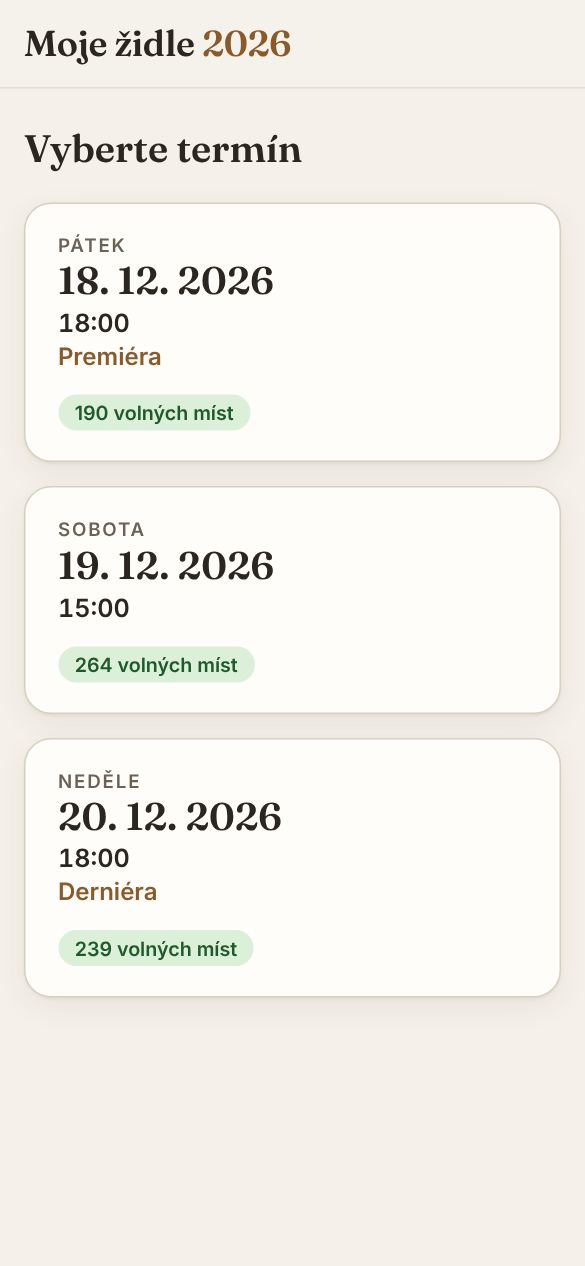
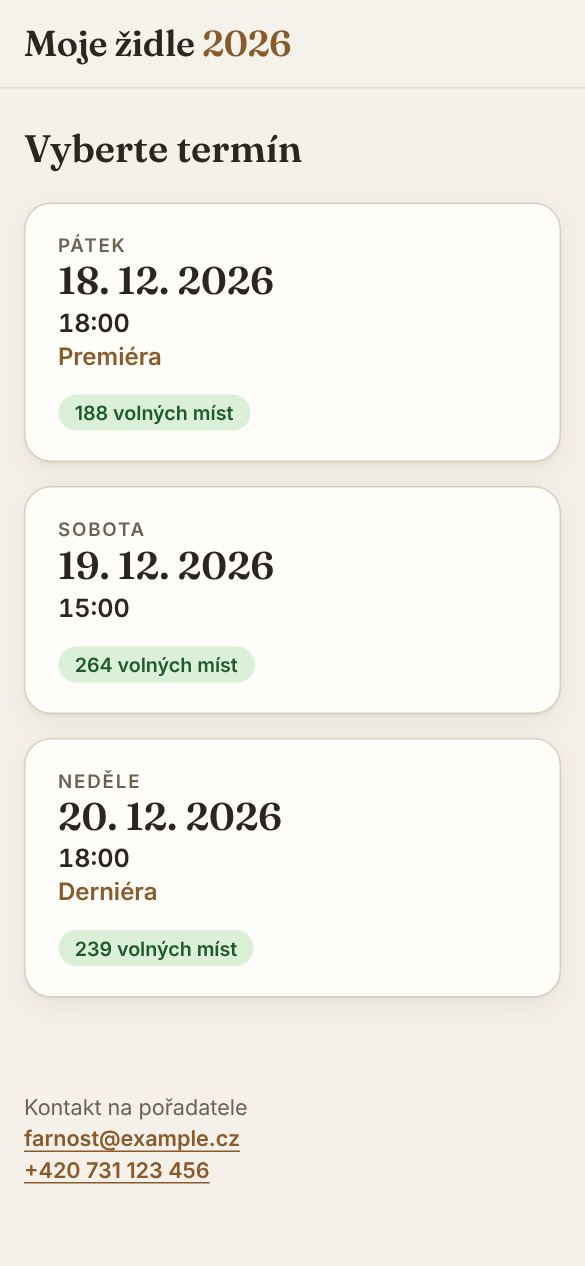
Add organizer contact, SMTP_USER login, softer per-IP limits with ALTCHA
- CONTACT_EMAIL / CONTACT_PHONE: website footer, contact line in every
  e-mail, Reply-To header
- SMTP_USER for servers where the login differs from the sender
- RESERVATIONS_PER_IP_PER_HOUR_ALTCHA (30) and
  ALTCHA_CHALLENGES_PER_IP_PER_HOUR (300) so shared networks are not blocked
- seats.php returns contact instead of the unused altcha flag
- docs updated

Claude-Session: https://claude.ai/code/session_01N2XaXNXgse1c2eHTGFf1yr

diff --git a/docs/prehled/index.html b/docs/prehled/index.html
@@ -160,7 +160,7 @@ footer { color: var(--fg-2); font-size: .85rem; border-top: 1px solid var(--line
     <div class="group-head"><h3>Návštěvník</h3><span class="where">mobil</span></div>
     <div class="screens">
       <figure><div class="phone"><img src="01-terminy.jpg" alt="Výběr představení" width="585" height="1266" loading="lazy"></div>
-        <figcaption><strong>1. Výběr představení</strong>Každé představení s počtem volných míst. Vyprodaná a uzavřená nejdou vybrat.</figcaption></figure>
+        <figcaption><strong>1. Výběr představení</strong>Každé představení s počtem volných míst. Vyprodaná a uzavřená nejdou vybrat. Dole kontakt na pořadatele.</figcaption></figure>
       <figure><div class="phone"><img src="02-planek.jpg" alt="Plánek kostela" width="585" height="1266" loading="lazy"></div>
         <figcaption><strong>2. Plánek kostela</strong>Sekce podle skutečného rozmístění. Barva ukazuje obsazenost, červené číslo vlastní vybraná místa.</figcaption></figure>
       <figure><div class="phone"><img src="03-sekce.jpg" alt="Detail sekce s místy" width="585" height="1266" loading="lazy"></div>
@@ -224,6 +224,7 @@ footer { color: var(--fg-2); font-size: .85rem; border-top: 1px solid var(--line
     <ul class="checklist">
       <li>Bankovní účet pro platby a specifický symbol.</li>
       <li>Přístup k odesílání e-mailů (SMTP): server, port, e-mailová adresa odesílatele a její heslo.</li>
+      <li>Kontaktní e-mail a telefon pořadatelů – zobrazí se na webu a v každém e-mailu, odpovědi na e-maily půjdou na tento kontakt.</li>
       <li>Data a časy všech představení a jejich storno podmínky – musí být hotové před spuštěním prodeje, po první rezervaci je už nelze změnit.</li>
       <li>Seznam VIP hostů pro každé představení.</li>
       <li>Jména pořadatelů u vchodu a na která představení přijdou (dostanou pozvánku).</li>

diff --git a/src/hooks/useSeats.js b/src/hooks/useSeats.js
@@ -17,6 +17,7 @@ export function useSeats(runId) {
   const [bookingOpen, setBookingOpen] = useState(false);
   const [notice, setNotice] = useState(null); // {text} – shown as a toast
   const [dataRetentionDays, setDataRetentionDays] = useState(null);
+  const [contact, setContact] = useState(null);
   const [loading, setLoading] = useState(true);
   const [loadError, setLoadError] = useState(null);
   const [submitting, setSubmitting] = useState(false);
@@ -35,6 +36,7 @@ export function useSeats(runId) {
       setMaxSeats(data.maxSeats);
       setBookingOpen(data.bookingOpen);
       setDataRetentionDays(data.dataRetentionDays);
+      setContact(data.contact ?? null);
       if (!data.bookingOpen) setSelected(new Set());
       // Drop seats someone else reserved in the meantime and tell the user.
       setSelected((prev) => {
@@ -149,6 +151,7 @@ export function useSeats(runId) {
     runs,
     run: runs?.find((r) => r.id === runId) ?? null,
     dataRetentionDays,
+    contact,
     stats,
     seatState,
     toggleSeat,

diff --git a/src/App.jsx b/src/App.jsx
@@ -180,6 +180,14 @@ export default function App() {
         />
       )}
 
+      {(seats.contact?.email || seats.contact?.phone) && (
+        <footer className="site-footer">
+          <span className="muted">Kontakt na pořadatele</span>
+          {seats.contact.email && <a href={`mailto:${seats.contact.email}`}>{seats.contact.email}</a>}
+          {seats.contact.phone && <a href={`tel:${seats.contact.phone.replace(/\s+/g, '')}`}>{seats.contact.phone}</a>}
+        </footer>
+      )}
+
       <div className={`toast ${toast ? 'is-visible' : ''} ${toast?.kind === 'error' ? 'is-error' : ''}`} role="status">
         {toast?.text}
       </div>

diff --git a/src/styles.css b/src/styles.css
@@ -1409,3 +1409,31 @@ h2 {
   margin: 0;
   font-size: 0.95rem;
 }
+
+/* ---------- Footer (contact) ---------- */
+
+.site-footer {
+  max-width: 1280px;
+  margin: 0 auto;
+  padding: 0 16px 2.5rem;
+  display: flex;
+  flex-direction: column;
+  gap: 0.25rem;
+  font-size: 0.9rem;
+}
+
+.site-footer a {
+  color: var(--accent);
+  font-weight: 600;
+  text-underline-offset: 3px;
+  overflow-wrap: anywhere;
+}
+
+@media (min-width: 641px) {
+  .site-footer {
+    flex-direction: row;
+    flex-wrap: wrap;
+    align-items: baseline;
+    gap: 0.5rem 1.25rem;
+  }
+}

diff --git a/src/data/seatService.js b/src/data/seatService.js
@@ -28,7 +28,7 @@ async function request(path, options = {}) {
 
 /**
  * { runs: [{id, label, startsAt, bookingOpen, free, stornoRules}], runId, taken: string[] (of runId),
- *   price, deadlineHours, maxSeats, bookingOpen (of runId), formToken, dataRetentionDays }
+ *   price, deadlineHours, maxSeats, bookingOpen (of runId), formToken, contact {email, phone}, dataRetentionDays }
  */
 export const fetchSeats = (runId) => request(runId ? `seats.php?run=${encodeURIComponent(runId)}` : 'seats.php');
 

diff --git a/api/lib/mail.php b/api/lib/mail.php
@@ -27,7 +27,7 @@ function deliver_mail(string $to, string $subject, string $text, ?string $html =
             $mail->Host = $host;
             $mail->Port = $port;
             $mail->SMTPAuth = filter_var(config('SMTP_AUTH'), FILTER_VALIDATE_BOOLEAN);
-            $mail->Username = (string) config('SMTP_SENDER');
+            $mail->Username = (string) (config('SMTP_USER') ?: config('SMTP_SENDER'));
             $mail->Password = (string) config('SMTP_PASSWORD');
             // 465 = implicit TLS; other ports use STARTTLS whenever the server offers it.
             $mail->SMTPSecure = $port === 465 ? PHPMailer::ENCRYPTION_SMTPS : '';
@@ -41,6 +41,9 @@ function deliver_mail(string $to, string $subject, string $text, ?string $html =
             $from = (string) config('MAIL_FROM');
         }
         $mail->setFrom($from, MAIL_FROM_NAME);
+        if (filter_var((string) config('CONTACT_EMAIL'), FILTER_VALIDATE_EMAIL)) {
+            $mail->addReplyTo((string) config('CONTACT_EMAIL'), MAIL_FROM_NAME);
+        }
         $mail->addAddress($to);
         $mail->Subject = $subject;
         if ($html !== null) {
@@ -63,6 +66,22 @@ function deliver_mail(string $to, string $subject, string $text, ?string $html =
 function mail_enabled(): bool
 {
     return filter_var(config('MAIL_ENABLED'), FILTER_VALIDATE_BOOLEAN);
+}
+
+/** "Kontakt: farnost@example.com · +420 …" or '' when no contact is configured. */
+function contact_line(): string
+{
+    $parts = array_filter([trim((string) config('CONTACT_EMAIL')), trim((string) config('CONTACT_PHONE'))]);
+    return $parts ? 'Kontakt: ' . implode(' · ', $parts) : '';
+}
+
+/** Public contact for the website footer. */
+function contact_public(): array
+{
+    return [
+        'email' => trim((string) config('CONTACT_EMAIL')) ?: null,
+        'phone' => trim((string) config('CONTACT_PHONE')) ?: null,
+    ];
 }
 
 function format_czk(int $amount): string
@@ -112,7 +131,8 @@ function send_customer_email(array $r, string $subject, array $lines): bool
     $body = implode("\n", array_merge(
         ["Dobrý den, {$r['first_name']} {$r['last_name']},", ''],
         $lines,
-        ['', 'Moje židle 2026']
+        ['', 'Moje židle 2026'],
+        contact_line() !== '' ? [contact_line()] : []
     ));
     $ok = deliver_mail($r['email'], $subject . ' – Moje židle 2026', $body);
     if (!$ok) {

diff --git a/api/config.php b/api/config.php
@@ -18,7 +18,9 @@ return (static function (): array {
         'MAX_SEATS_PER_RESERVATION' => 20,
 
         // Spam / bot protection
-        'RESERVATIONS_PER_IP_PER_HOUR' => 5,
+        'RESERVATIONS_PER_IP_PER_HOUR' => 5,          // without ALTCHA
+        'RESERVATIONS_PER_IP_PER_HOUR_ALTCHA' => 30,  // with ALTCHA (each reservation costs proof-of-work); shared networks
+        'ALTCHA_CHALLENGES_PER_IP_PER_HOUR' => 300,
         'PENDING_RESERVATIONS_PER_EMAIL' => 2, // unpaid reservations one e-mail may hold at once in one run
         'LOGIN_ATTEMPTS_PER_15_MIN' => 10,     // admin and organizer login, per IP
         'FORM_MIN_SECONDS' => 3,               // reservation sent sooner after loading the page = bot
@@ -52,9 +54,15 @@ return (static function (): array {
         'MAIL_FROM' => 'rezervace@example.com', // sender for PHP mail() (SMTP uses SMTP_SENDER)
         'SMTP_HOST' => '',               // e.g. smtp.example.com; '' = use PHP mail()
         'SMTP_PORT' => 587,              // 465 = implicit TLS (SMTPS); others use STARTTLS when offered
-        'SMTP_AUTH' => true,             // log in with SMTP_SENDER / SMTP_PASSWORD
-        'SMTP_SENDER' => '',             // sender address and SMTP login, e.g. rezervace@example.com
+        'SMTP_AUTH' => true,             // log in with SMTP_USER (or SMTP_SENDER) / SMTP_PASSWORD
+        'SMTP_SENDER' => '',             // sender address (From), e.g. rezervace@example.com
+        'SMTP_USER' => '',               // SMTP login when it differs from SMTP_SENDER (e.g. 'apikey'); '' = SMTP_SENDER
         'SMTP_PASSWORD' => '',
+
+        // Contact of the organizers: shown in the website footer and in every e-mail;
+        // CONTACT_EMAIL is also the Reply-To address of e-mails.
+        'CONTACT_EMAIL' => '',
+        'CONTACT_PHONE' => '',
         'PUBLIC_URL' => '',              // e.g. https://example.com/zidle/ – used for links in e-mails
 
         // Allowed CORS origin when the frontend runs on another domain ('' = same origin only)

diff --git a/api/lib/ticket.php b/api/lib/ticket.php
@@ -122,6 +122,7 @@ function send_ticket_email(array $r, array $intro = []): bool
         'Variabilní symbol: ' . $r['variable_symbol'],
         '',
         'Při vstupu prosím ukažte QR kód z tohoto e-mailu.',
+        ...(contact_line() !== '' ? ['', contact_line()] : []),
     ]);
 
     $html = '<!doctype html><html><body style="margin:0;background:#f5f1ea;font-family:Arial,sans-serif;color:#2b2620">'
@@ -136,7 +137,8 @@ function send_ticket_email(array $r, array $intro = []): bool
         . '<p style="margin:0 0 16px;color:#6b6256">' . $count . ' ' . ($count === 1 ? 'místo' : ($count < 5 ? 'místa' : 'míst')) . '</p>'
         . '<p style="margin:0;line-height:1.6">' . implode('<br>', array_map($h, $seats)) . '</p>'
         . '</div>'
-        . '<p style="text-align:center;color:#6b6256;font-size:13px">Při vstupu prosím ukažte tento QR kód.</p>'
+        . '<p style="text-align:center;color:#6b6256;font-size:13px">Při vstupu prosím ukažte tento QR kód.'
+        . (contact_line() !== '' ? '<br>' . $h(contact_line()) : '') . '</p>'
         . '</div></body></html>';
 
     $subject = ($intro ? 'Nová vstupenka' : 'Vstupenka') . ' – Moje židle 2026';

diff --git a/api/reservations.php b/api/reservations.php
@@ -87,7 +87,10 @@ function create_reservation(): void
         json_error($errors['seats'] ?? 'Zkontrolujte zadané údaje.', 422, ['fields' => $errors]);
     }
     // Counted only for well-formed requests, so a visitor's own typos don't use up the limit.
-    if (!rate_limit('reserve|' . client_ip(), (int) config('RESERVATIONS_PER_IP_PER_HOUR'), 3600)) {
+    // With ALTCHA every reservation costs proof-of-work, so a higher limit lets several
+    // people book from one shared network (parish Wi-Fi, office).
+    $ipLimit = (int) config(altcha_enabled() ? 'RESERVATIONS_PER_IP_PER_HOUR_ALTCHA' : 'RESERVATIONS_PER_IP_PER_HOUR');
+    if (!rate_limit('reserve|' . client_ip(), $ipLimit, 3600)) {
         json_error('Příliš mnoho rezervací z tohoto zařízení. Zkuste to prosím později.', 429);
     }
 

diff --git a/api/altcha.php b/api/altcha.php
@@ -10,7 +10,7 @@ run_api(function (): void {
     if (!altcha_enabled()) {
         json_response(['enabled' => false]);
     }
-    if (!rate_limit('altcha-challenge|' . client_ip(), 60, 3600)) {
+    if (!rate_limit('altcha-challenge|' . client_ip(), (int) config('ALTCHA_CHALLENGES_PER_IP_PER_HOUR'), 3600)) {
         json_error('Příliš mnoho pokusů. Zkuste to prosím později.', 429);
     }
     json_response(['enabled' => true, 'challenge' => altcha_challenge()]);

diff --git a/api/config.local.example.php b/api/config.local.example.php
@@ -20,6 +20,9 @@ return [
     'SMTP_PORT' => 587,
     'SMTP_AUTH' => true,
     'SMTP_SENDER' => 'rezervace@example.com',
+    'SMTP_USER' => '',                 // only when the login differs from SMTP_SENDER
+    'CONTACT_EMAIL' => 'farnost@example.com',
+    'CONTACT_PHONE' => '+420 123 456 789',
     'SMTP_PASSWORD' => 'change-me',
     'PUBLIC_URL' => 'https://example.com/zidle/',
 ];

diff --git a/api/seats.php b/api/seats.php
@@ -36,7 +36,7 @@ run_api(function (): void {
         'maxSeats' => (int) config('MAX_SEATS_PER_RESERVATION'),
         'bookingOpen' => $run !== null && run_booking_open($run),
         'formToken' => form_token(),
-        'altcha' => altcha_enabled(),
+        'contact' => contact_public(),
         'dataRetentionDays' => (int) config('DATA_RETENTION_DAYS'),
     ]);
 });
